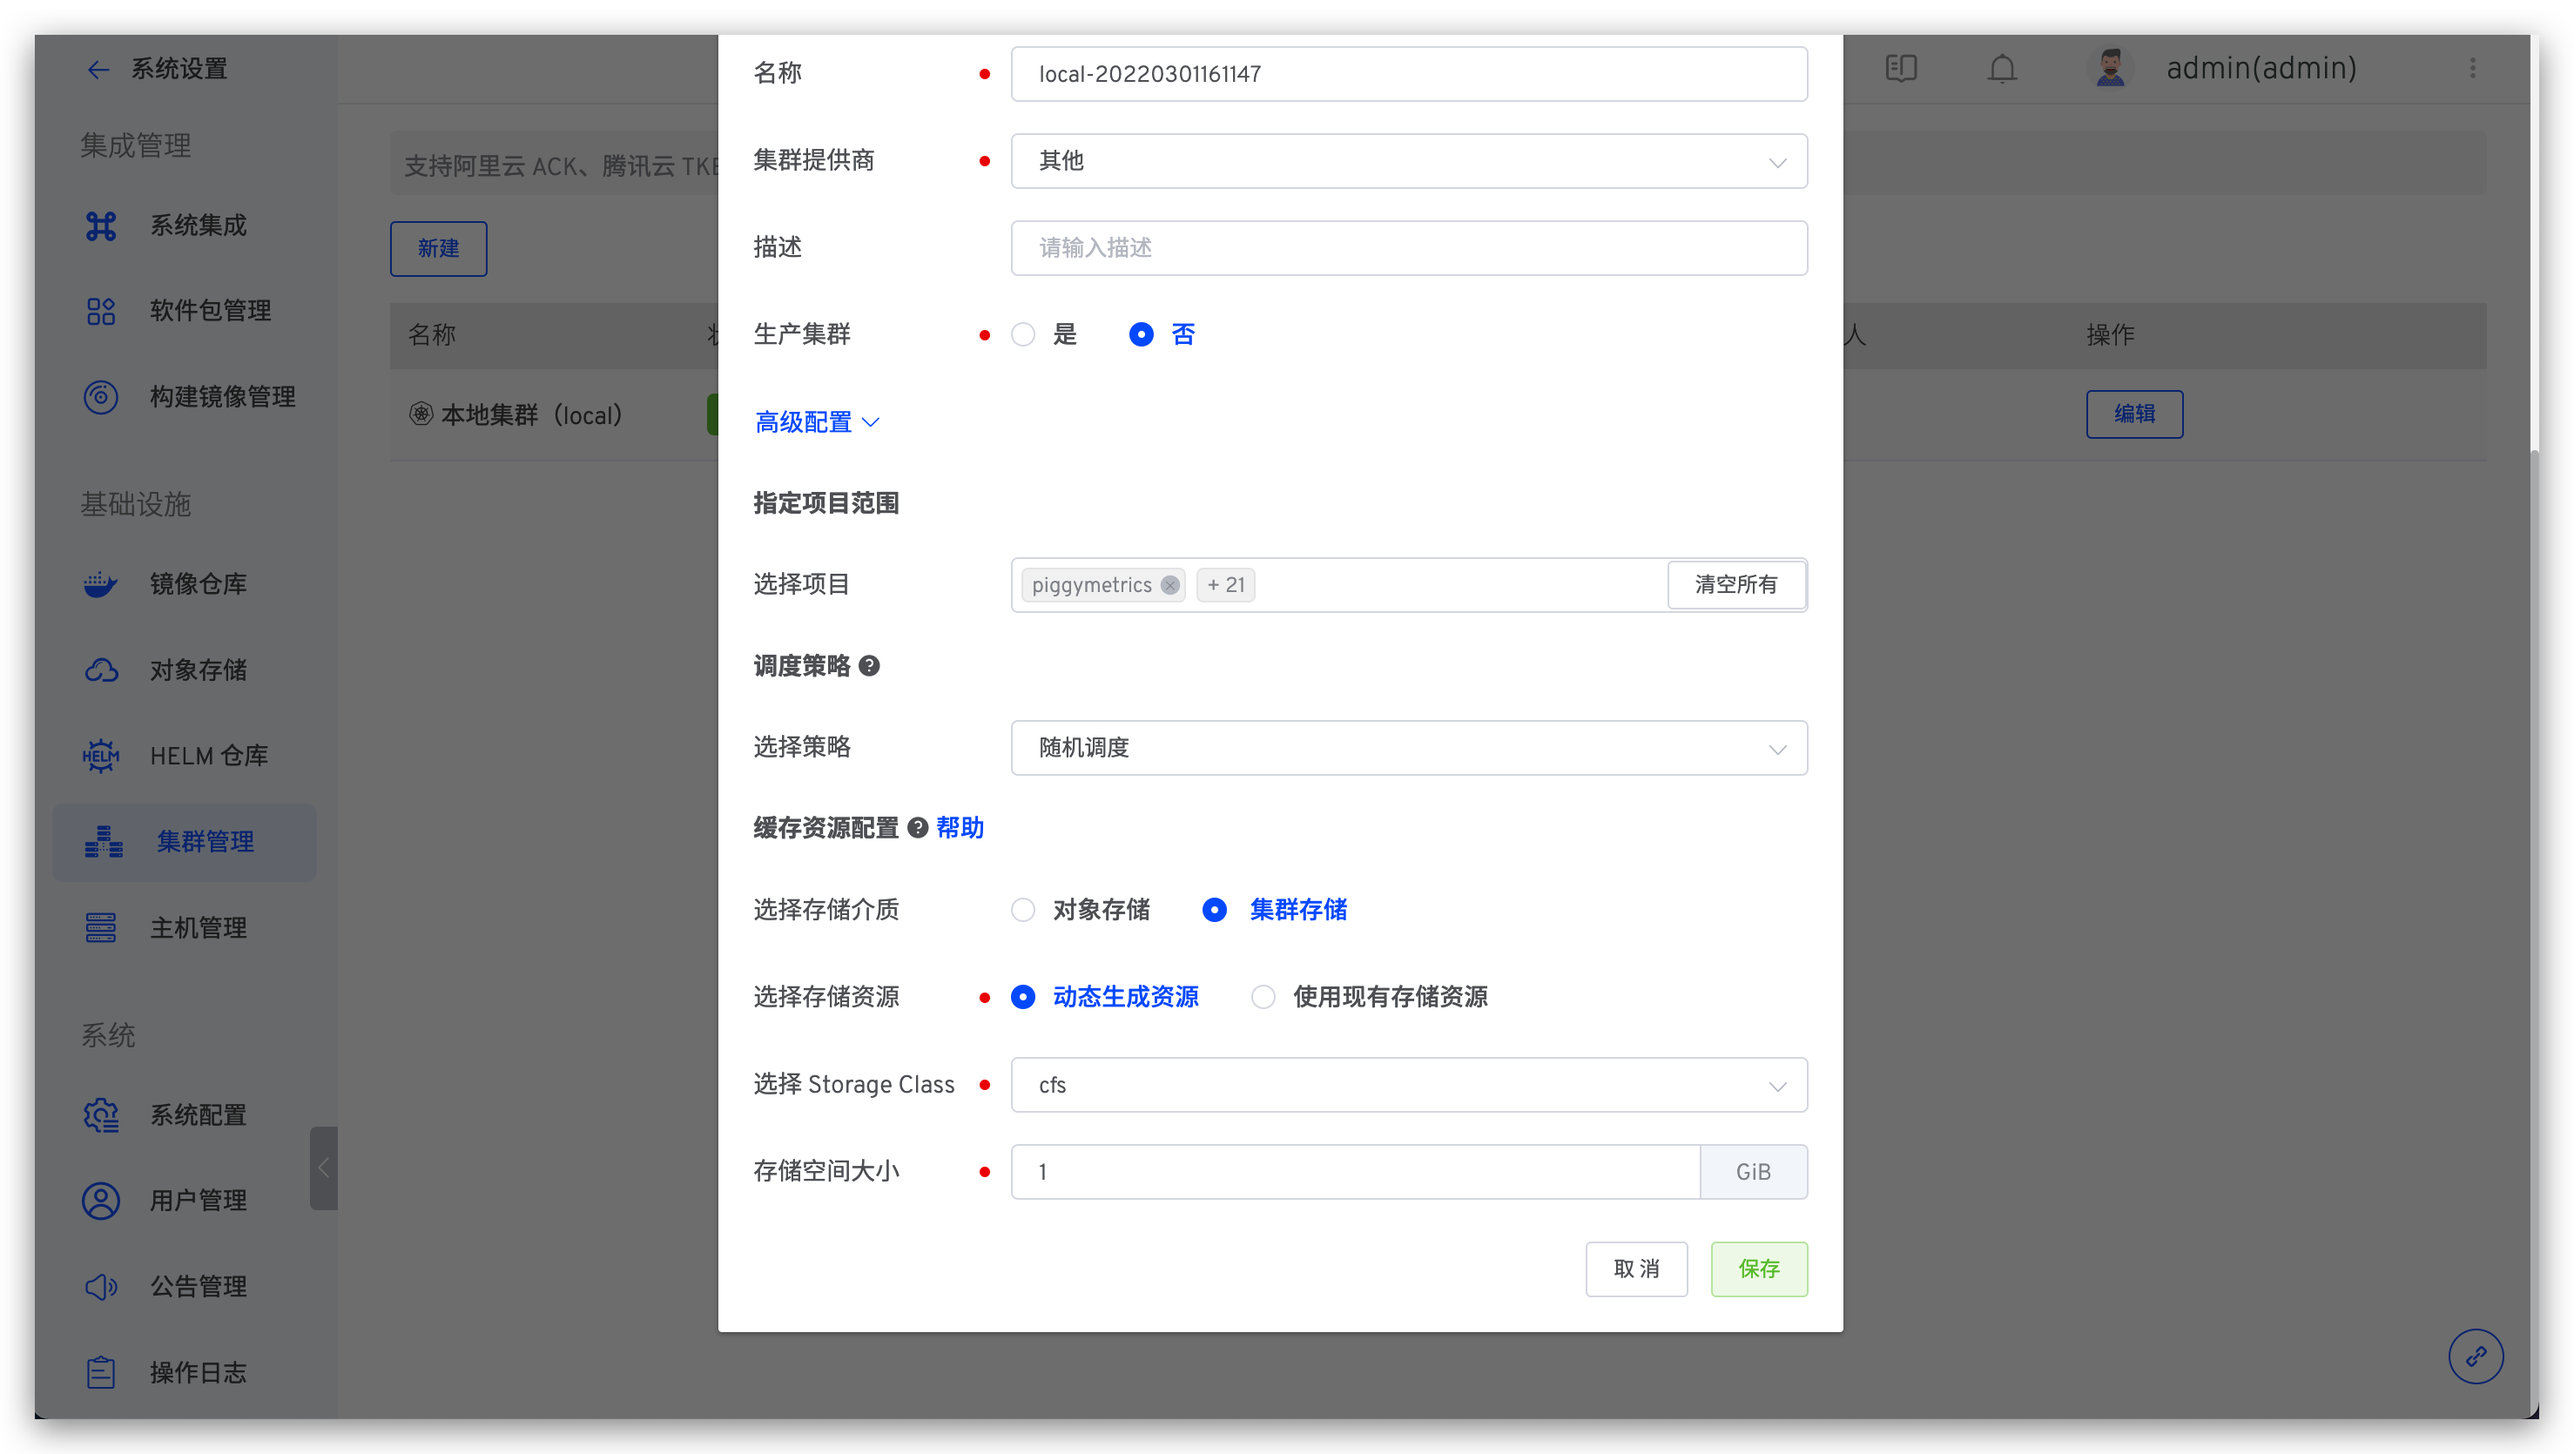
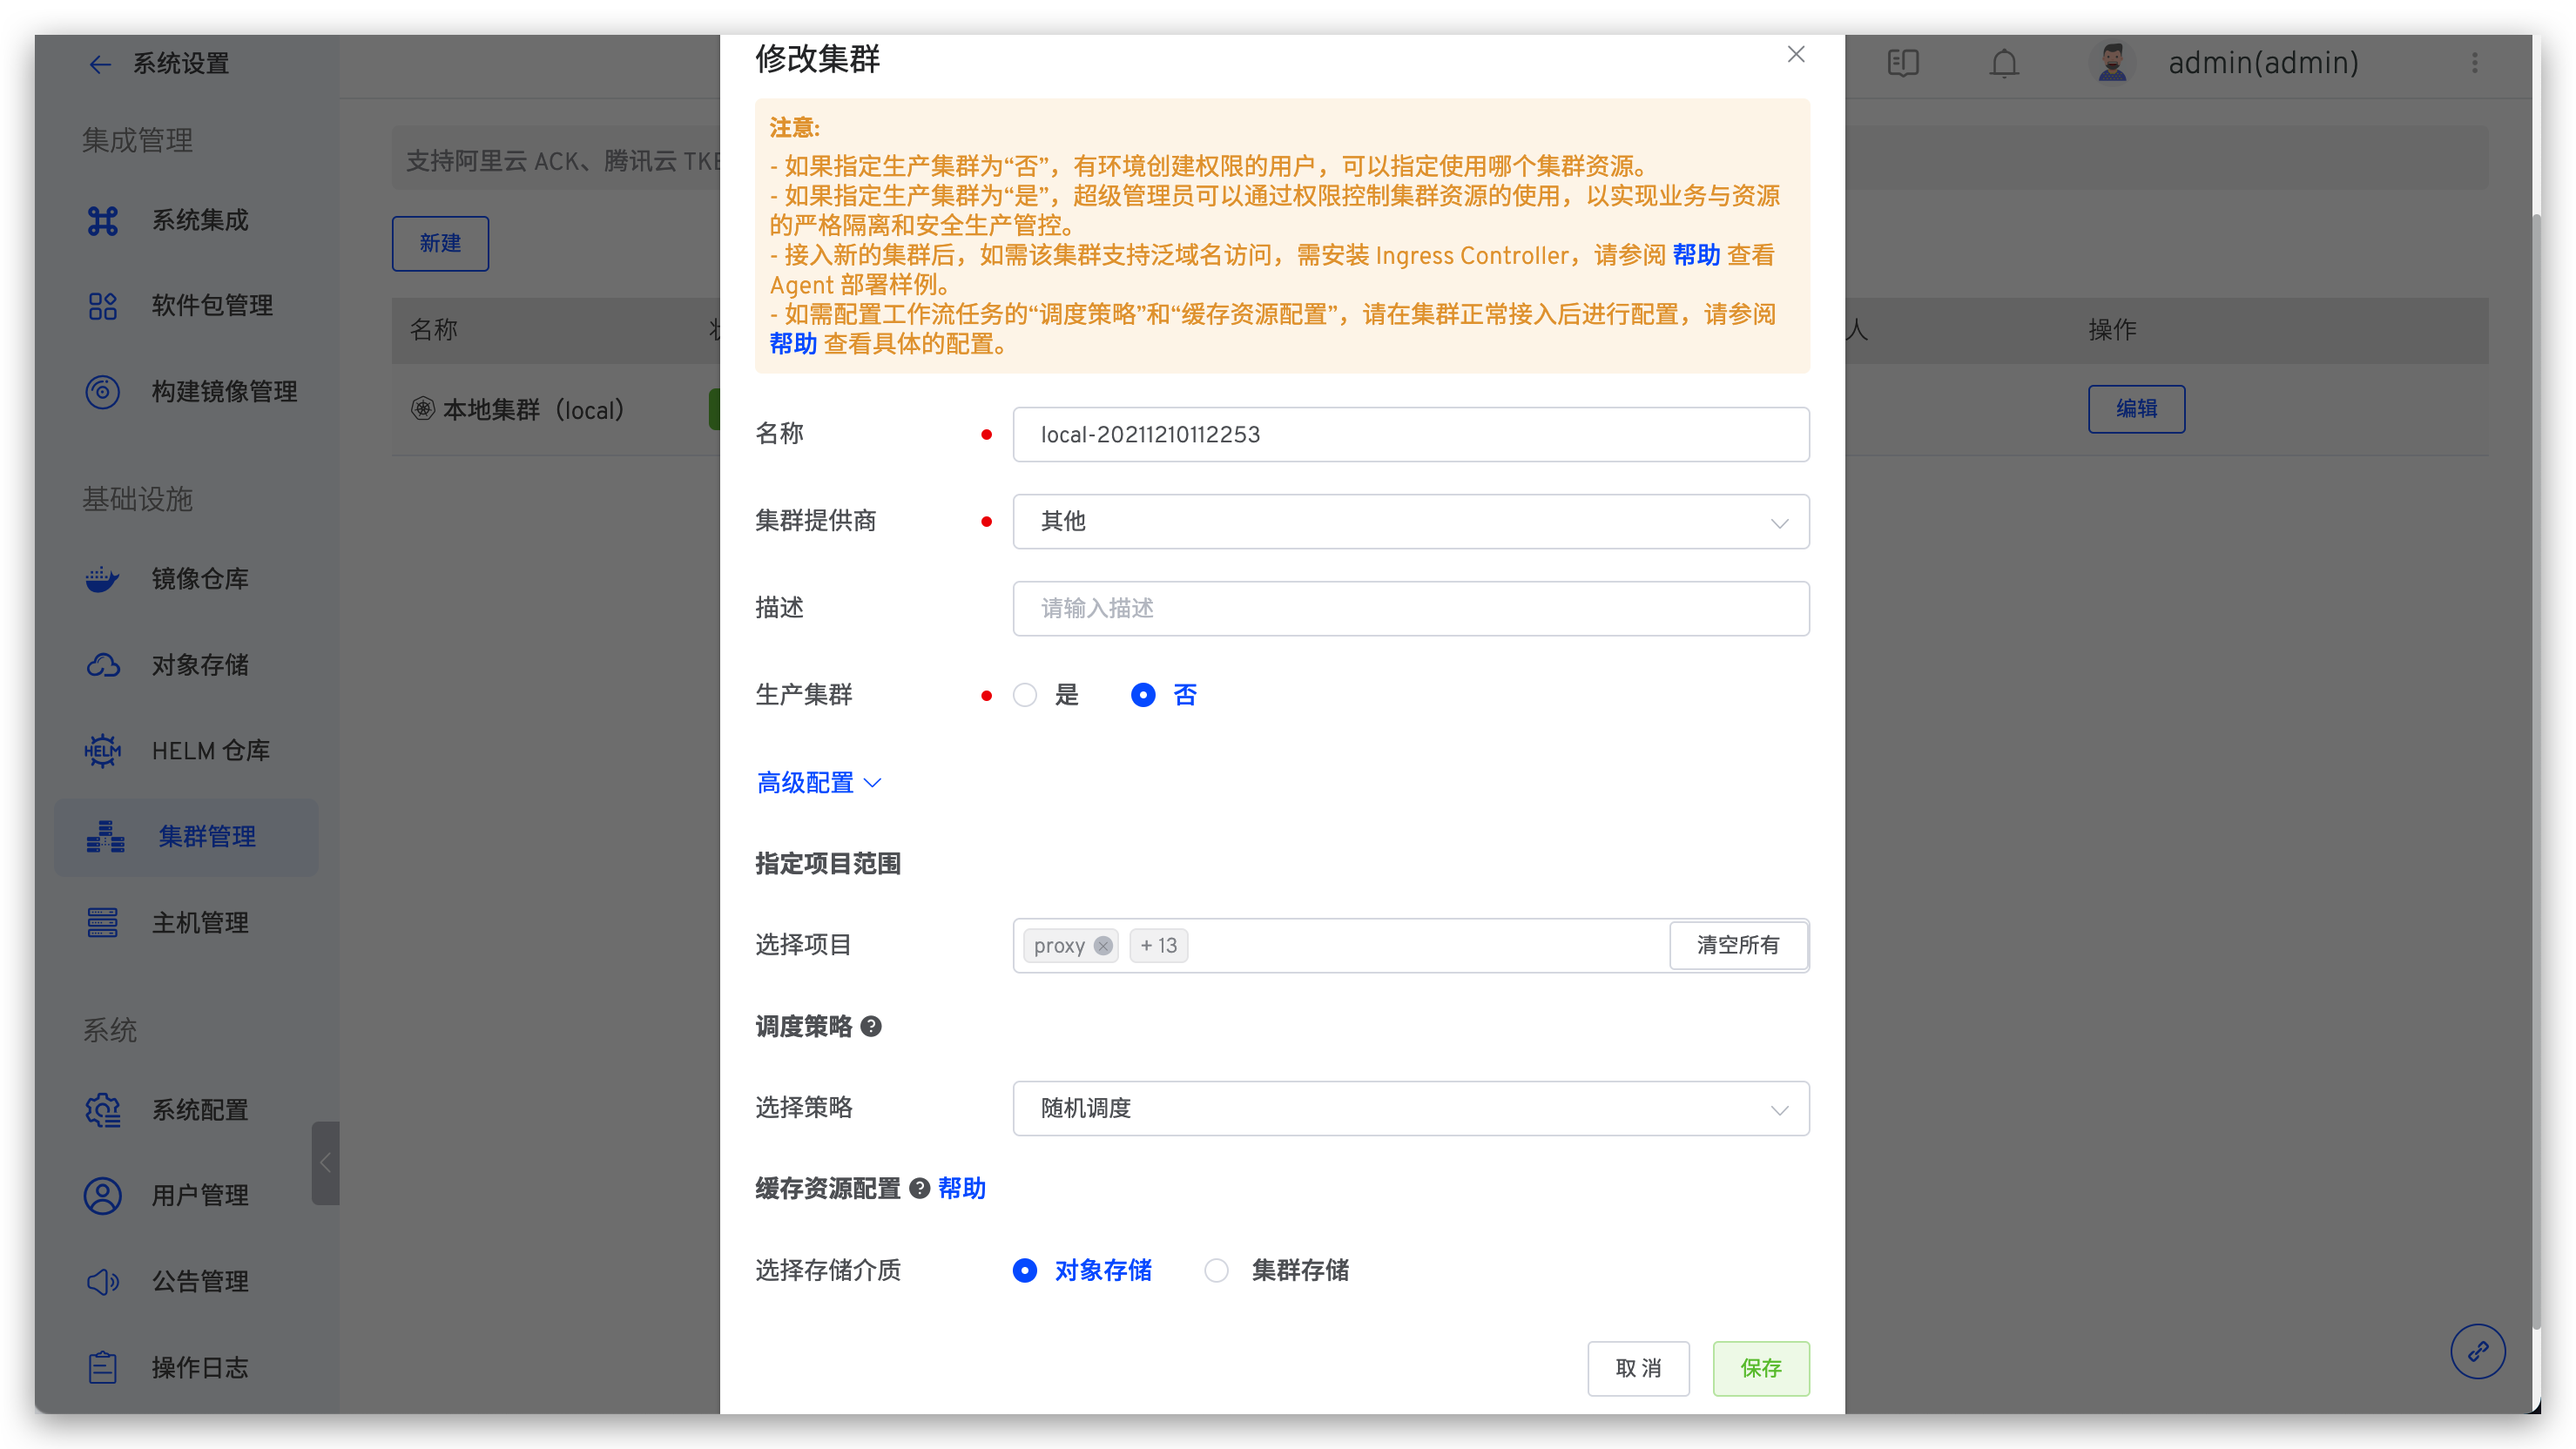
support subpath for cluster cache setting

diff --git a/dev/12.系统设置/11.cluster_manage.md b/dev/12.系统设置/11.cluster_manage.md
@@ -45,15 +45,44 @@ permalink: /dev/pages/cluster_manage/
 
 可按需对不同集群资源配置缓存策略。
 
+### 使用对象存储
+
 ![修改集群缓存资源配置](./_images/cluster_update_1.png)
 
-说明：
-- `选择存储介质`：支持对象存储和集群存储（PVC 资源）。
-- `选择存储资源`：如果使用`对象存储`介质，则使用系统默认对象存储作为存储资源，可在[对象存储管理](/dev/settings/object-storage/)中设置默认对象存储。如果使用`集群存储`介质，则可选择集群中已有的存储资源或通过指定 StorageClass 按需创建新的存储资源。
-  - `动态生成资源`：选择文件存储类型的 StorageClass 并指定动态生成的存储空间大小。
-  - `使用现有存储资源`：选择已有存储资源，注意：创建该存储资源的 PVC 中，accessModes 需要是 ReadWriteMany。
+将会使用系统默认对象存储来缓存资源，可在[对象存储管理](/dev/settings/object-storage/)中设置默认对象存储。
 
-当使用`集群存储`作为缓存存储介质时，若修改了集群的缓存资源配置，则修改之前已缓存的资源在修改后将不再生效，会在新的存储资源下重新开始缓存。
+### 使用集群存储
+
+![修改集群缓存资源配置](./_images/cluster_update_2.png)
+
+可使用集群中已有的存储资源或按需动态创建资源。
+
+**选择存储资源**
+
+- `动态生成资源`：选择文件存储类型的 StorageClass 并指定动态生成的存储空间大小。
+- `使用现有存储资源`：选择已有存储资源，注意：创建该存储资源的 PVC 中，accessModes 需要是 ReadWriteMany。
+
+**缓存目录规则**
+
+可设置缓存资源在集群存储中的存储目录规则，实现共享缓存，或者根据不同的项目/工作流/服务组件独享缓存。支持以下变量：
+
+    $PROJECT：项目名称
+    $WORKFLOW：工作流名称
+    $SERVICE_MODULE：服务组件名称 (测试工作流中无此参数，对于测试工作流的缓存，该变量将被忽略)
+
+举例说明如下：
+| 缓存目录规则 | 说明 |
+|---------------------------------------|--------------------------------------------------------------------------|
+| `$PROJECT/$WORKFLOW/$SERVICE_MODULE`  | 为同一项目同一工作流中的服务组件单独设置独享缓存，不同服务组件之间互不干扰            |
+| `$PROJECT/$WORKFLOW`                  | 同一项目下的同一工作流共享缓存；不同工作流之间独享缓存互不干扰                      |
+| `$PROJECT/$SERVICE_MODULE`            | 同一项目下的相同服务组件共享缓存                                               |
+| `$PROJECT`                            | 同一项目共享缓存；不同项目的缓存资源将存储在集群 PV 的不同目录中，彼此独享缓存互不干扰 |
+| `cache`                               | 缓存资源将存储在集群 PV 的 cache 目录下，所有项目共享使用缓存                     |
+|  无                                   | 缓存资源将存储在集群 PV 的 `/` 根目录下，所有项目共享使用缓存                      |
+
+### 更多信息
+
+若修改了集群的缓存资源配置（比如将`对象存储`修改为`集群存储`，或者`动态生成资源`修改为`使用现有存储资源`），则修改之前已缓存的资源在修改后将不再生效，会在新的存储资源下重新开始缓存。
 
 ## 集群使用
 

diff --git a/dev/06.工作流/01.workflow-cache.md b/dev/06.工作流/01.workflow-cache.md
@@ -8,15 +8,18 @@ permalink: /dev/workflow/cache/
 系统目前支持对象存储缓存和 PVC 缓存，关于系统缓存配置请参考[缓存资源配置](/dev/pages/cluster_manage/#缓存资源配置)。
 
 ## 工作空间缓存
-开启构建高级配置中的缓存配置，选中`工作空间$WORKSPACE`，工作流执行构建任务时会将本次任务的工作空间（WORKSPACE）缓存到对应的存储介质中。
 
 ![工作流的缓存](./_images/workflow_cache_1_1.png)
+
+开启构建高级配置中的缓存配置，选中`工作空间$WORKSPACE`，工作流执行构建任务、测试工作流执行测试任务时会将本次任务的工作空间（WORKSPACE）缓存到对应的存储介质中。
 
 使用对象存储作为缓存介质时，工作空间的缓存机制：
 1. 同一工作流，不同服务都有独立的工作空间缓存，互不影响。
 2. 不同工作流，相同服务都有独立的工作空间缓存，互不影响。
 
 ![工作流的缓存](./_images/workflow_cache_1.png)
+
+使用集群存储作为缓存介质时，可根据在系统设置中不同的缓存资源配置来实现共享缓存或独享缓存，配置参考[缓存目录规则](/dev/pages/cluster_manage/#使用集群存储)。
 
 工作空间可能包含以下内容：
 1. 构建时拉取的代码和依赖
